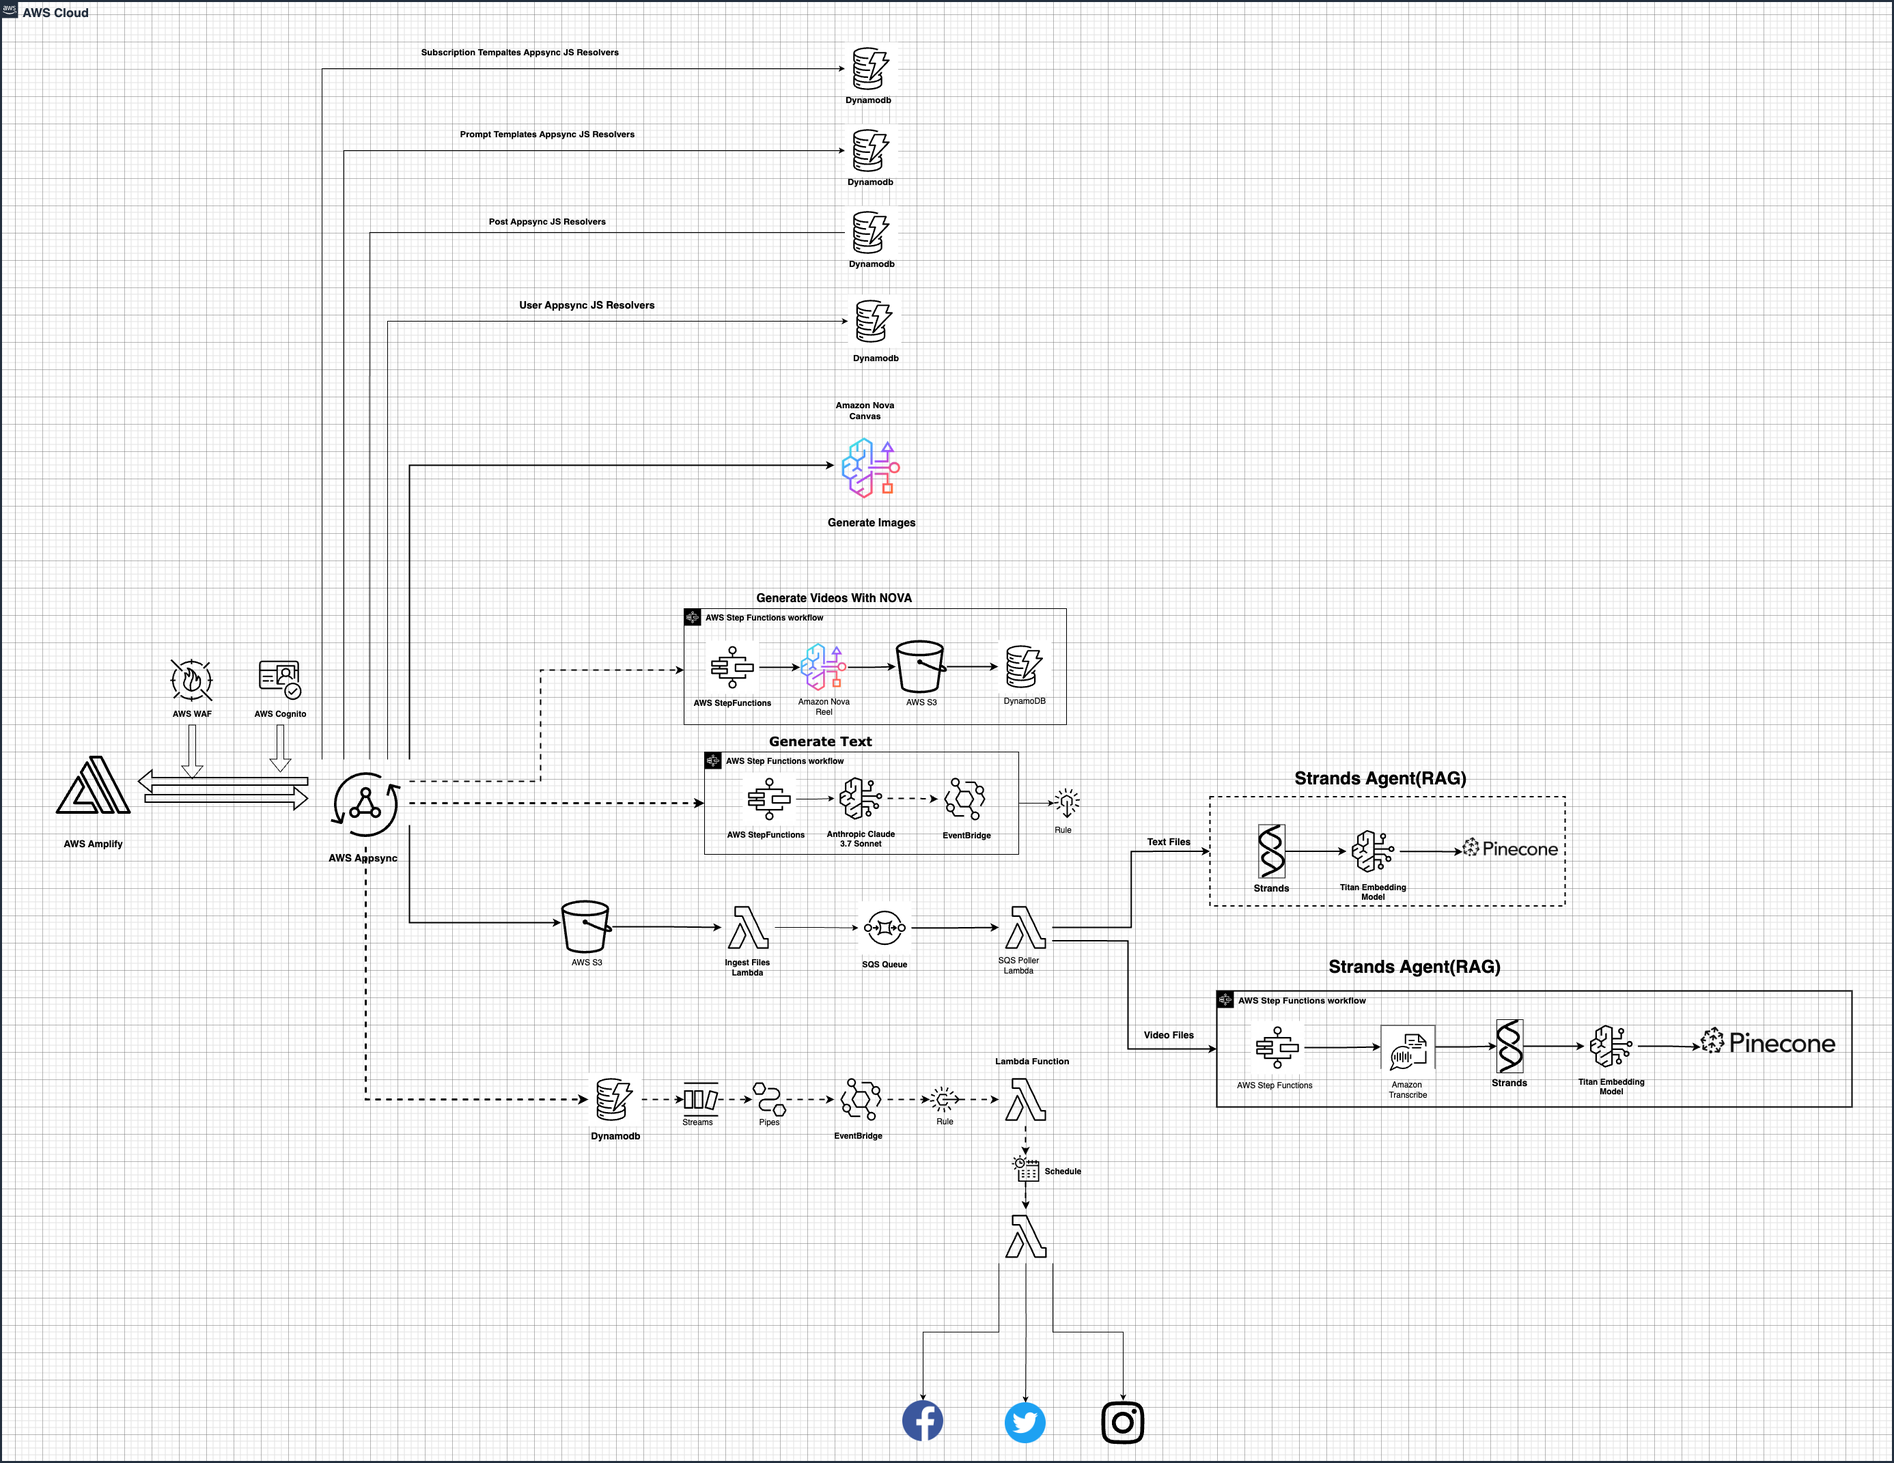
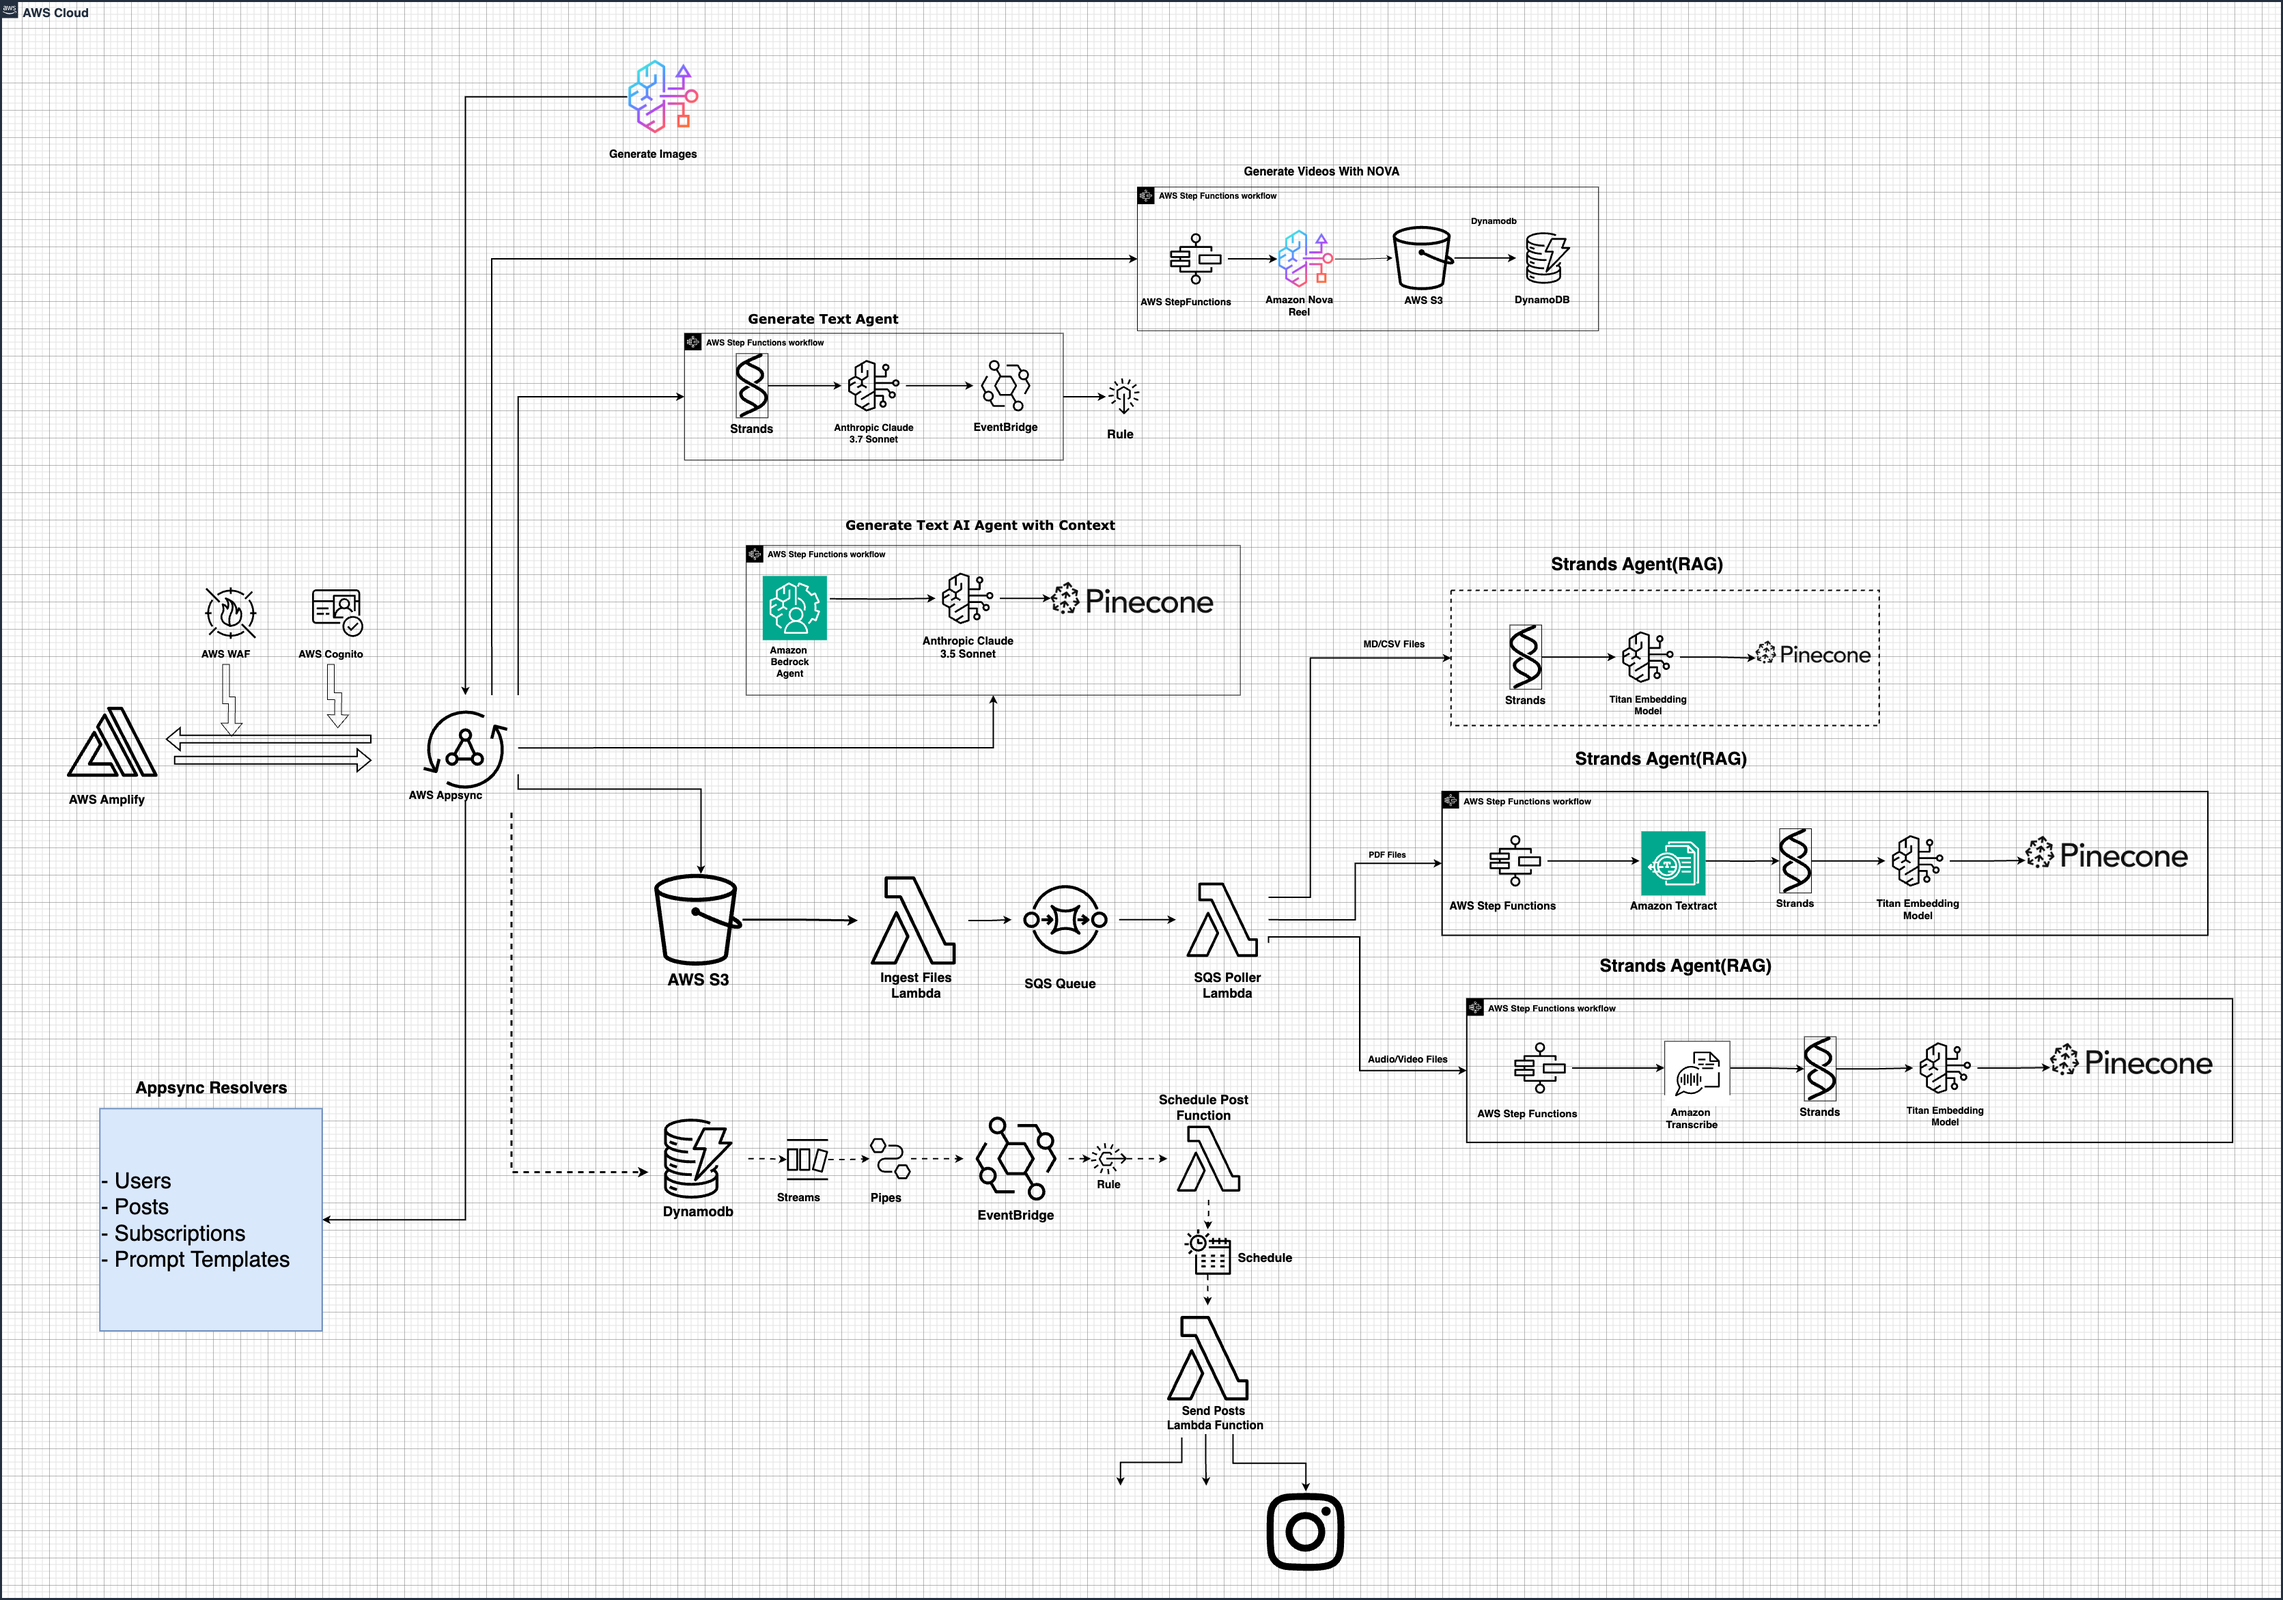
more updates

Changed region(s): [[0.0, 0.0, 1.0, 1.0]]

diff --git a/README.md b/README.md
@@ -1,27 +1,6 @@
 # Welcome to Ukuaji
 
-## An AI social Media Post Scheduler
-
-## Problem
-
-We run a learning platform called Educloud academy(https://educloud.academy)
-where we focus on teaching Cloud Computing and AI through hands on workshops.
-We've created a lot of content in different formats.
-
-- Text
-- Images
-- Videos.
-
-Right now we're faced with a huge challenge. Marketing and distribution. We're
-not posting content consistently on social media and that's hurting sales to the
-max. Creating and posting content consistently is tough. Our platform has been
-praised by many for it's unique content, but most reviewers end their sentences
-with "underrated".We're still hidden. We've scouted the internet for post
-scheduling services, but very few cater to all our needs. We especially wanted a
-platform that'll consume the content we already have an then generated social
-media content, based on our content. Privacy of our content is also a top
-priority. We aren't okay with uploading our workshops to a third party knowledge
-base.
+- [Introduction](/docs/1.introduction.md)
 
 ## Solution
 
@@ -45,98 +24,6 @@ including:
   and videos.
 - **Subscription Monetization:** Seamlessly manage subscription plans to
   effectively monetize user access and usage.
-
-## Solutions Architecture
-
-# AWS Services Used
-
-## Compute and Orchestration
-
-- **AWS Lambda**:1 million free requests + 400 000 GB‑seconds compute/month
-  (12‑month free tier)
-
-- **AWS Step Functions**:Usage counts toward standard state transitions
-  (12‑month trial)
-
-## Event-Driven & Messaging
-
-- **AWS SQS Queue** first 1 million requests free/month, 12‑month tier.
-- **AWS EventBridge** : includes 100 000 events ingested and 100 000 events
-  delivered free/month .
-- **AWS EventBridge Scheduler**: Free Tier: As part of the Free Tier, you can
-  get started with EventBridge Scheduler at no cost. You can make 14,000,000
-  invocations per month for free.
-- **AWS EventBridge Pipes** : usage falls under EventBridge free/event
-  allowances
-
-## Serverless GraphQL & Database
-
-- **AWS AppSync** : includes 250 000 query & data modification operations, and
-  25 000 real‑time updates/month (12‑month free tier).
-
-- **Amazon DynamoDB** : 25 GB storage + 25 WCU + 25 RCU + 2.5 million stream
-  read requests monthly (Always Free).
-- **Pinecone**: Pay only for what you use with Pinecone.No upfront commitments,
-  complete flexibility.
-
-## Storage
-
-- **AWS S3**: 5 GB standard storage + 20 000 GET + 2 000 PUT requests/month
-  (Always Free)
-
-## AI & Media Generation
-
-- **AWS Bedrock (Agents/Knowledge Bases)** : no free tier; pay‑as‑you‑go for
-  model inference & customization
-
-- **Amazon Transcribe**: 60 minutes audio/month, free for first 12 months
-
-- **Amazon Nova Canvas (image generation)** : billed per image: e.g., $0.04
-  standard (no free allotment)
-
-- **Amazon Nova Reel (video generation)** : billed per second: e.g., ~$0.08/
-
-## Infrastructure As Code
-
-**AWS CDK** : no runtime cost itself; you pay only for the resources it
-provisions (e.g., Lambda, S3)
-
-### Resource Tagging
-
-All stacks apply **mandatory tags** (`AWS CDK Aspects`):
-
-| Key           | Value                     | Rationale                        |
-| ------------- | ------------------------- | -------------------------------- |
-| `Project`     | `Ukuaji`                  | Easy cost allocation             |
-| `Environment` | `dev` \| `test` \| `prod` | Promote least-privilege policies |
-| `Owner`       | GitHub username or team   | Accountability                   |
-| `CostCenter`  | CloudFinance code         | Chargeback / showback            |
-| `Stack`       | Logical stack id          | Quickly locate resources         |
-
-### Separation of Concerns
-
-| Principle                                                 | Implementation                                                         |
-| --------------------------------------------------------- | ---------------------------------------------------------------------- |
-| **Stacks** encapsulate **deployment boundaries**          | `SchedulePostsStack` wires together independent domain constructs.     |
-| **Constructs** model **single-responsibility components** | Each `*-construct.ts` exposes a minimal interface (e.g. tables, ARNs). |
-| **Reusability** across stages (dev/test/prod)             | Context vars + `cdk.json` enable environment-agnostic deployments.     |
-
-```
-lib/
-├── constructs/
-│   ├── auth-construct.ts
-│   ├── database-construct.ts
-│   ├── knowledge-base-construct.ts
-│   ├── media-processing-construct.ts
-│   ├── workflow-construct.ts
-|   ├── events-construct.ts
-│   ├── waf-construct.ts
-│   └── appsync-construct.ts
-├── schedule_posts-stack.ts
-└── types.ts / constants.ts
-```
-
-![stack-constructs](./assets/stack-construct-img.png)
 
 ## Domain Description
 

diff --git a/docs/solutions_architecture.md b/docs/solutions_architecture.md
@@ -1,0 +1,93 @@
+## Solutions Architecture
+
+![solutions_architecture](/assets/solutions_architecture.png)
+
+# AWS Services Used
+
+## Compute and Orchestration
+
+- **AWS Lambda**:1 million free requests + 400 000 GB‑seconds compute/month
+  (12‑month free tier)
+
+- **AWS Step Functions**:Usage counts toward standard state transitions
+  (12‑month trial)
+
+## Event-Driven & Messaging
+
+- **AWS SQS Queue** first 1 million requests free/month, 12‑month tier.
+- **AWS EventBridge** : includes 100 000 events ingested and 100 000 events
+  delivered free/month .
+- **AWS EventBridge Scheduler**: Free Tier: As part of the Free Tier, you can
+  get started with EventBridge Scheduler at no cost. You can make 14,000,000
+  invocations per month for free.
+- **AWS EventBridge Pipes** : usage falls under EventBridge free/event
+  allowances
+
+## Serverless GraphQL & Database
+
+- **AWS AppSync** : includes 250 000 query & data modification operations, and
+  25 000 real‑time updates/month (12‑month free tier).
+
+- **Amazon DynamoDB** : 25 GB storage + 25 WCU + 25 RCU + 2.5 million stream
+  read requests monthly (Always Free).
+- **Pinecone**: Pay only for what you use with Pinecone.No upfront commitments,
+  complete flexibility.
+
+## Storage
+
+- **AWS S3**: 5 GB standard storage + 20 000 GET + 2 000 PUT requests/month
+  (Always Free)
+
+## AI & Media Generation
+
+- **AWS Bedrock (Agents/Knowledge Bases)** : no free tier; pay‑as‑you‑go for
+  model inference & customization
+
+- **Amazon Transcribe**: 60 minutes audio/month, free for first 12 months
+
+- **Amazon Nova Canvas (image generation)** : billed per image: e.g., $0.04
+  standard (no free allotment)
+
+- **Amazon Nova Reel (video generation)** : billed per second: e.g., ~$0.08/
+
+## Infrastructure As Code
+
+**AWS CDK** : no runtime cost itself; you pay only for the resources it
+provisions (e.g., Lambda, S3)
+
+### Resource Tagging
+
+All stacks apply **mandatory tags** (`AWS CDK Aspects`):
+
+| Key           | Value                     | Rationale                        |
+| ------------- | ------------------------- | -------------------------------- |
+| `Project`     | `Ukuaji`                  | Easy cost allocation             |
+| `Environment` | `dev` \| `test` \| `prod` | Promote least-privilege policies |
+| `Owner`       | GitHub username or team   | Accountability                   |
+| `CostCenter`  | CloudFinance code         | Chargeback / showback            |
+| `Stack`       | Logical stack id          | Quickly locate resources         |
+
+### Separation of Concerns
+
+| Principle                                                 | Implementation                                                         |
+| --------------------------------------------------------- | ---------------------------------------------------------------------- |
+| **Stacks** encapsulate **deployment boundaries**          | `SchedulePostsStack` wires together independent domain constructs.     |
+| **Constructs** model **single-responsibility components** | Each `*-construct.ts` exposes a minimal interface (e.g. tables, ARNs). |
+| **Reusability** across stages (dev/test/prod)             | Context vars + `cdk.json` enable environment-agnostic deployments.     |
+
+```
+lib/
+├── constructs/
+│   ├── auth-construct.ts
+│   ├── database-construct.ts
+│   ├── knowledge-base-construct.ts
+│   ├── media-processing-construct.ts
+│   ├── workflow-construct.ts
+|   ├── events-construct.ts
+│   ├── waf-construct.ts
+│   └── appsync-construct.ts
+├── schedule_posts-stack.ts
+└── types.ts / constants.ts
+```
+
+![stack-constructs](./assets/stack-construct-img.png)
